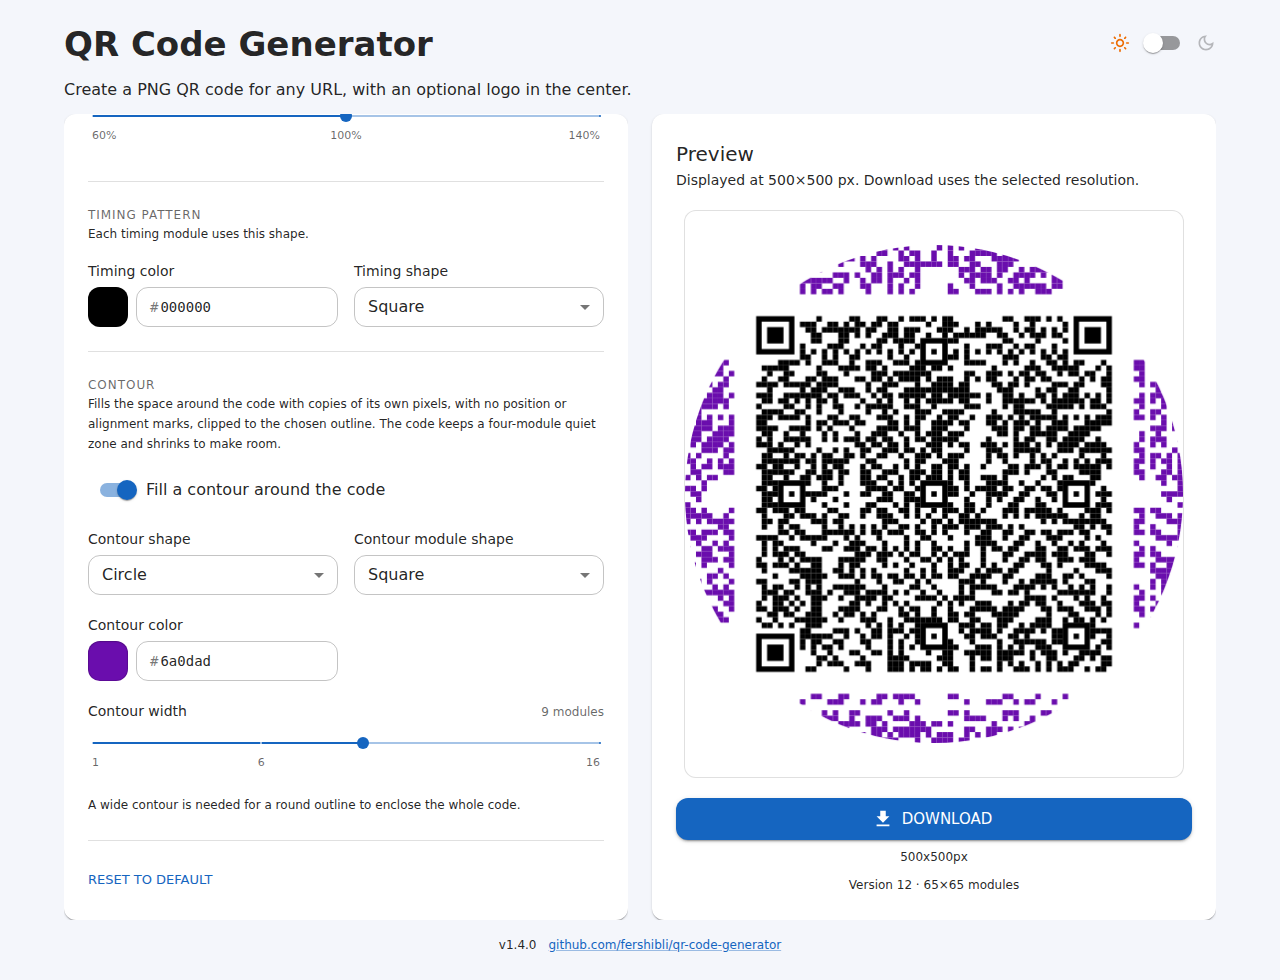
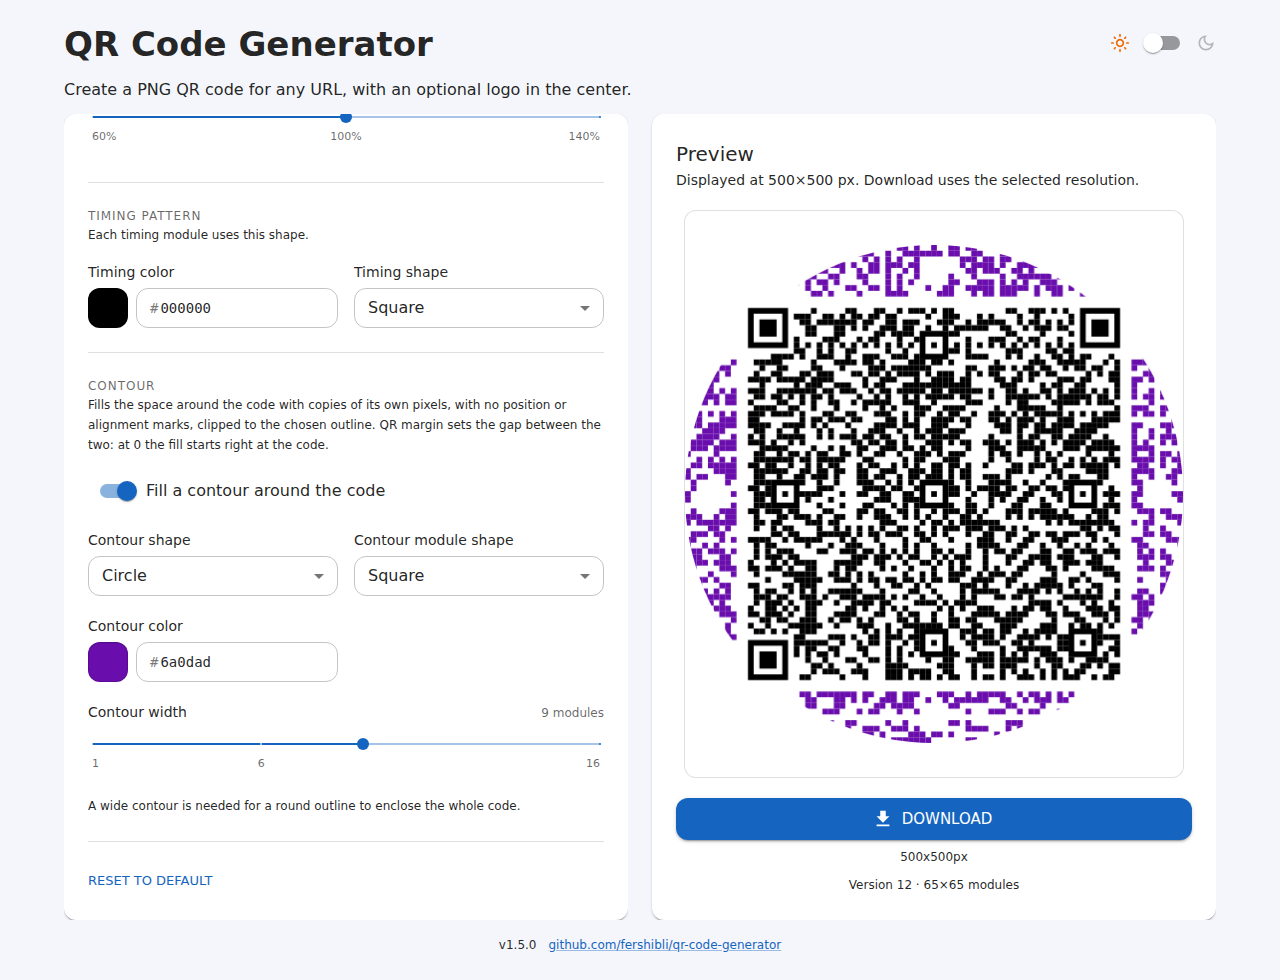
docs: describe the contour gap and the download name

diff --git a/README.md b/README.md
@@ -27,6 +27,7 @@ A single-page React app that turns a URL into an RGB PNG QR code, with an option
 - Optional transparent logo backing so QR modules show through around the logo (the PNG stays opaque RGB). The switch is on the form, below the logo upload, and only appears after a logo is selected.
 - Adjustable quiet-zone margin (0–10 modules).
 - Export resolution from 250×250 through 1750×1750 px, in 250 px steps.
+- Downloads named after the encoded URL, such as `a.com.br-500px.png`.
 - Live preview always shown at 500×500 CSS pixels; download uses the selected resolution.
 - Light and dark theme, following the system by default or a stored preference.
 - Last 8 logos cached in IndexedDB for one-click reuse (removing the current logo does not clear the cache).
@@ -78,8 +79,9 @@ Resizing the position marks is the one setting here that breaks scanning — see
 - **Contour shape** is the outline the fill is clipped to: circle, square, rounded square, or diamond.
 - **Contour module shape** and **Contour color** style the repeated pixels.
 - **Contour width** is how many modules the band adds on each side (1–16). A round outline needs a wide band — roughly 8 modules or more — before it can enclose the whole code.
+- **QR margin**, back in **Output**, is the gap between the code and the band. Set it to 0 to have them touch.
 
-The code keeps a quiet zone of at least four modules from the fill and shrinks to make room for the band, so the exported PNG stays the resolution you picked. A centered logo shrinks with the code, keeping the same share of it.
+**QR margin** doubles as the gap between the code and the fill: at 0 the band starts right at the code, so the two read as one field of pixels. The code shrinks to make room for the band, so the exported PNG stays the resolution you picked, and a centered logo shrinks with the code, keeping the same share of it.
 
 ### 6. Optionally add a logo
 
@@ -87,7 +89,7 @@ The code keeps a quiet zone of at least four modules from the fill and shrinks t
 
 ![QR code with a centered logo, size and padding sliders, and recent logos](docs/screenshots/with-logo.png)
 
-Click **Download** to save `qr-code-{n}x{n}.png`. Removing the current logo does not delete it from recents.
+Click **Download** to save the PNG. The file is named after the URL it encodes plus the export size — `https://a.com.br` at 500×500 saves as `a.com.br-500px.png`. The scheme, `www.`, and any trailing slash are dropped, accents are folded, anything else unsafe for a file name becomes a dash, and a URL that leaves nothing usable falls back to `qr-code`. Removing the current logo does not delete it from recents.
 
 ### 7. Switch light and dark mode
 
@@ -105,11 +107,12 @@ Every option here was checked by generating the PNG in the running app (Playwrig
 | Module density, up to version 40 | ✅ |
 | Contour fill, any outline or width | ✅ |
 | Alignment pattern size, 60–140% | ✅ |
+| Contour gap (QR margin), 0–6 modules | ✅ |
 | Position pattern size, anything but 100% | ❌ at every step from 60% to 140% |
 
 Scanners derive the module size from the three position patterns, so a mark drawn larger or smaller than its 7×7 box makes the decoder sample the grid at the wrong pitch. The control is still there — other generators offer it too — but the style form shows a warning while it is off 100%, and codes made that way should be tested on a real scanner before being published.
 
-The contour fill is safe because it never repeats a function pattern and never comes closer than four modules to the code.
+The contour fill never repeats a function pattern, which is what keeps it from competing with the real position marks. The gap between the code and the fill is yours to set: decoding held at every QR margin from 0 to 6 modules, including 0, where the fill touches the code. Four modules is still what the spec asks for, so keep the margin up if the code is going to print or be scanned from a distance.
 
 ## Architecture
 
